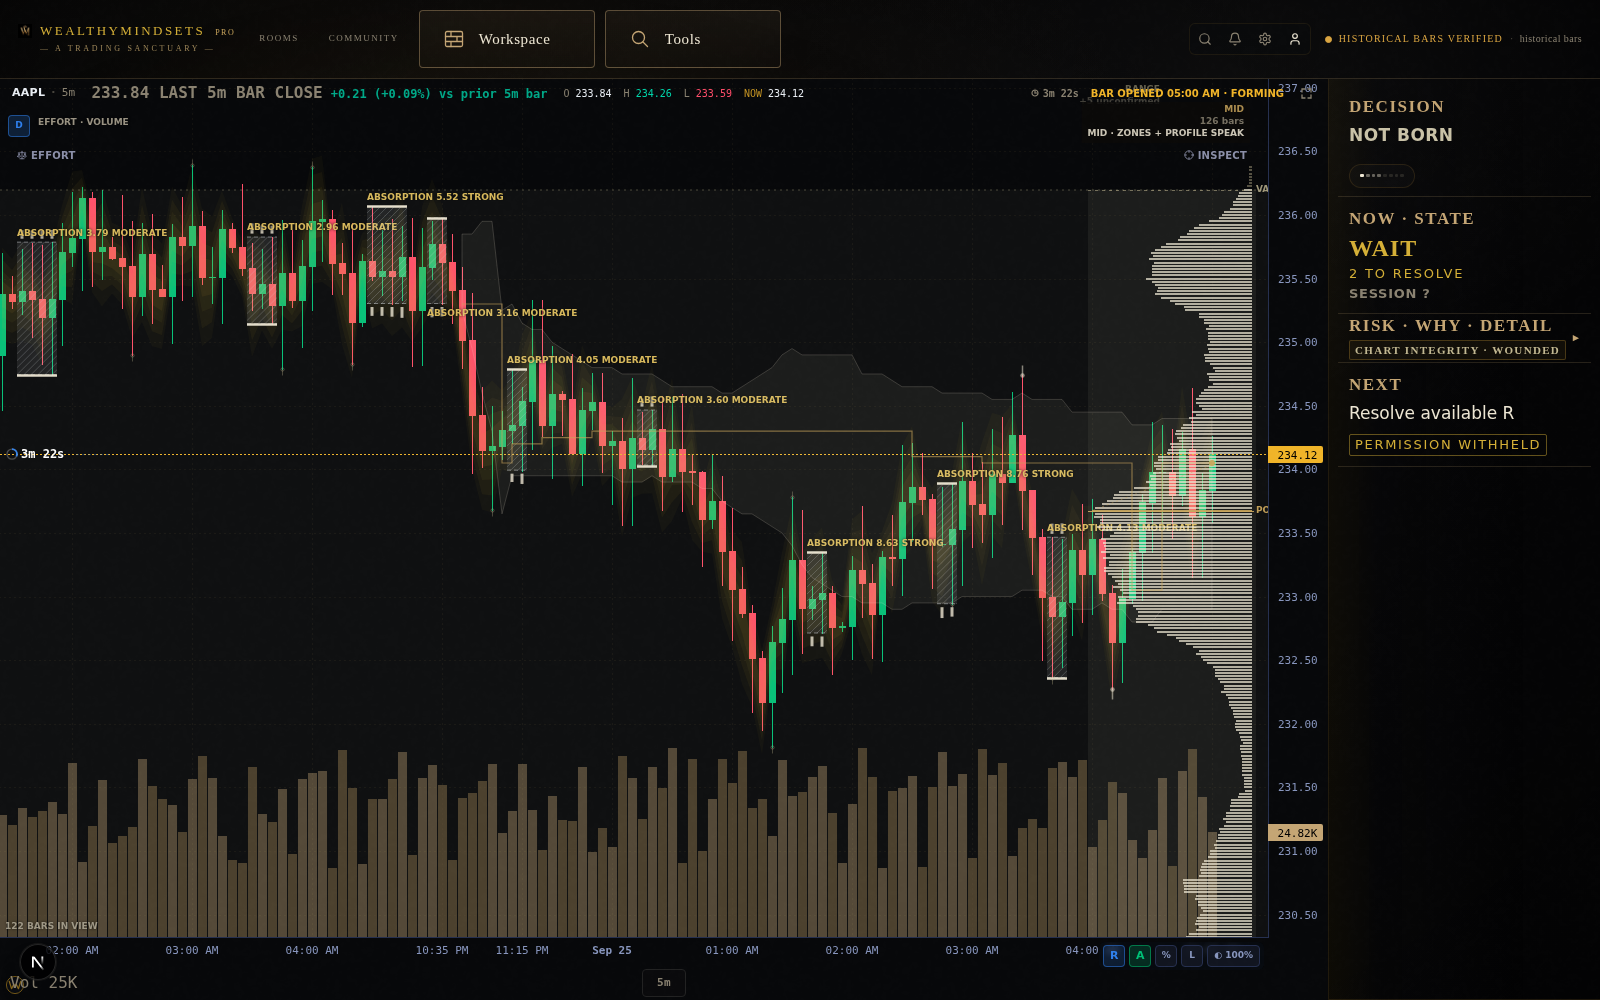
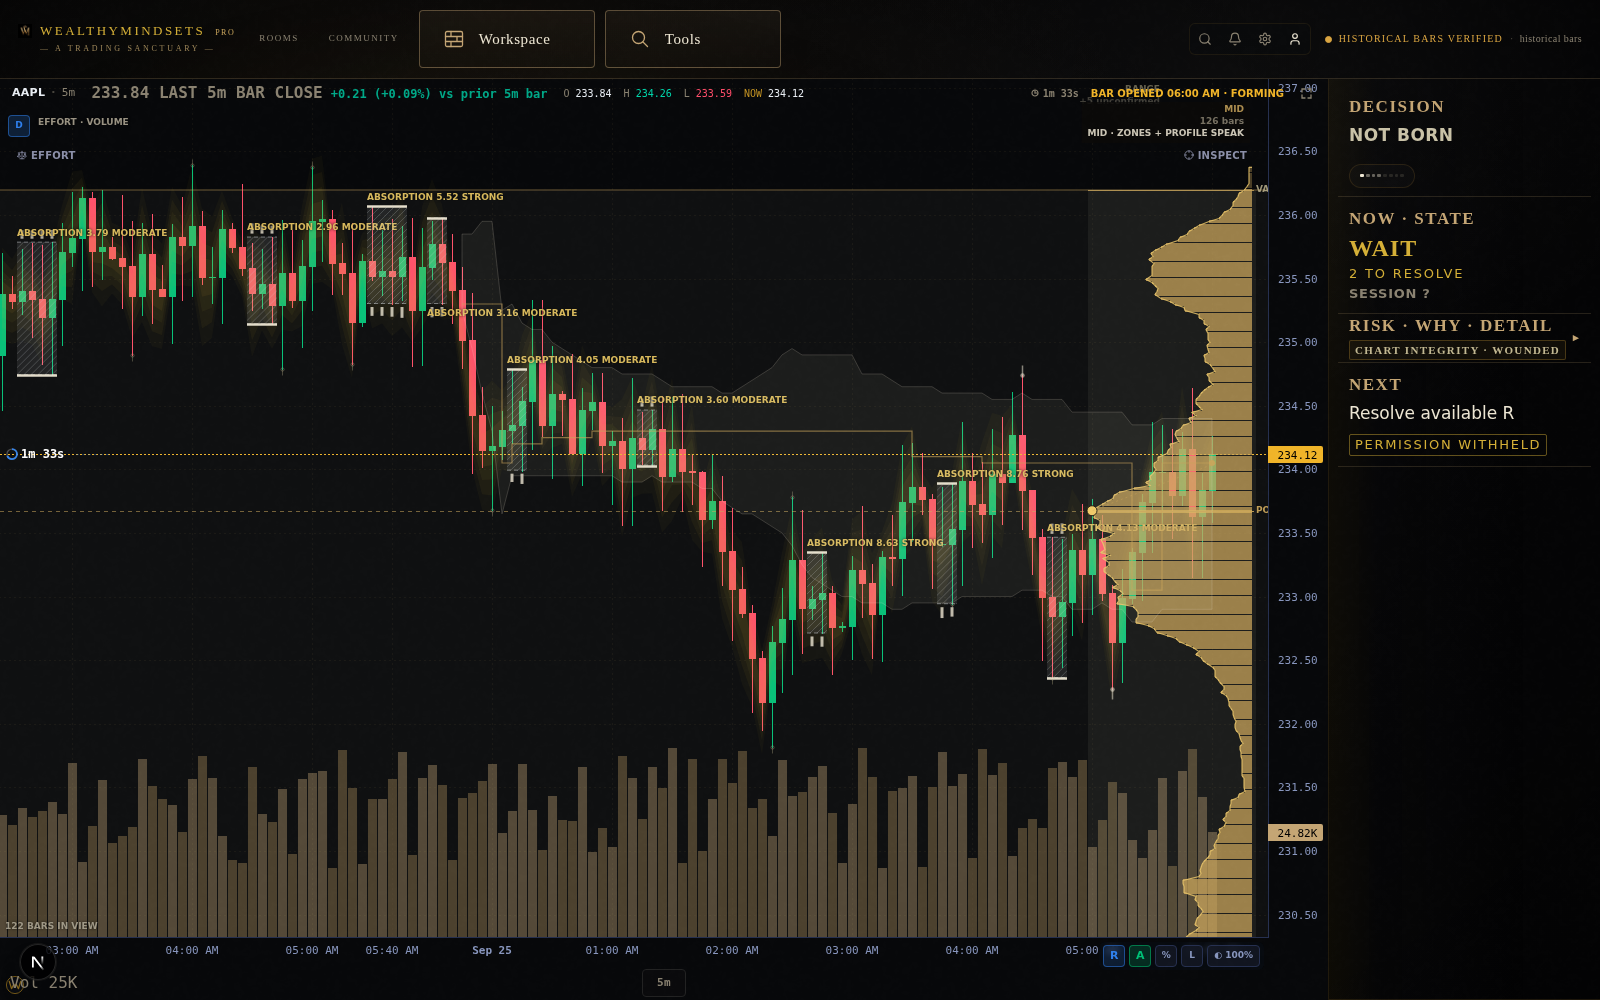
Garden 12 · FAR is a different picture: dim candles, regime envelope, major structure (canon H-501)
At FAR (the one depth owner: visible bar count) the glass now paints the
H-501 left panel first: a veil dims the candles, a regime envelope is fit
through MAJOR swings in view (zigzag turning only after 20% of the visible
range — measured, not chosen), with its midline, and the last four pivots
are named against their own kind (HIGHER HIGH / LOWER LOW …). Nothing is
extrapolated past the last pivot. Receipt: ds.farForm
("DIM+ENVELOPE:UP+NAMED:4" or "DIM:TOO_FEW_PIVOTS").
Proof: garden12/SIDE_H501_far.png, BA_far_regime.png (FIXTURE bars).

Claude-Session: https://claude.ai/code/session_01Gntm2WzCaW5uQMS2aMojoZ

Changed region(s): [[0.6562, 0.186, 0.7812, 0.961], [0.25, 0.93, 0.3438, 0.961], [0.375, 0.93, 0.4062, 0.961]]

diff --git a/src/lib/marketData/viewModels/selectFarRegimeEnvelope.ts b/src/lib/marketData/viewModels/selectFarRegimeEnvelope.ts
@@ -1,0 +1,126 @@
+/**
+ * FAR REGIME ENVELOPE — canon plate H-501 (WM_A_H501_SEMANTIC_ZOOM), left
+ * panel: "DIM CANDLES · REGIME ENVELOPE · MAJOR STRUCTURE ONLY".
+ *
+ * At regime scale the trader weighs direction and width, not candles. The
+ * envelope is two least-squares lines in (time, price): one through the
+ * MAJOR swing highs in view, one through the major swing lows. "Major" is
+ * measured, not chosen: a zigzag over the visible bars that only turns after
+ * price travels REVERSAL_FRACTION of the visible high–low range. Each of the
+ * last few pivots is named against the previous pivot of its own kind
+ * (HIGHER HIGH, LOWER LOW, …). Nothing is extrapolated past the last pivot.
+ */
+
+export const FAR_ENVELOPE_VERSION = 1;
+export const FAR_NAMED_PIVOTS = 4;
+export const REVERSAL_FRACTION = 0.2;
+
+export interface FarBar { readonly time: number; readonly high: number; readonly low: number }
+
+export type FarEnvelopeReason = "DRAWN" | "TOO_FEW_PIVOTS";
+export type PivotWord = "HIGHER HIGH" | "LOWER HIGH" | "EQUAL HIGH" | "HIGHER LOW" | "LOWER LOW" | "EQUAL LOW";
+
+export interface EnvelopeLine {
+  /** price = slope * time + intercept (time in seconds). */
+  readonly slope: number;
+  readonly intercept: number;
+}
+
+export interface NamedPivot {
+  readonly time: number;
+  readonly price: number;
+  readonly kind: "HIGH" | "LOW";
+  readonly word: PivotWord;
+}
+
+export interface FarEnvelopeVM {
+  readonly version: number;
+  readonly drawn: boolean;
+  readonly reason: FarEnvelopeReason;
+  readonly upper: EnvelopeLine | null;
+  readonly lower: EnvelopeLine | null;
+  readonly fromTime: number | null;
+  readonly toTime: number | null;
+  /** "UP" / "DOWN" when both edges lean the same way, else "SIDEWAYS". */
+  readonly lean: "UP" | "DOWN" | "SIDEWAYS";
+  readonly named: readonly NamedPivot[];
+}
+
+const refuse = (): FarEnvelopeVM => ({
+  version: FAR_ENVELOPE_VERSION, drawn: false, reason: "TOO_FEW_PIVOTS",
+  upper: null, lower: null, fromTime: null, toTime: null, lean: "SIDEWAYS", named: [],
+});
+
+function fit(pts: readonly { time: number; price: number }[]): EnvelopeLine | null {
+  if (pts.length < 2) return null;
+  const n = pts.length;
+  const mx = pts.reduce((s, p) => s + p.time, 0) / n;
+  const my = pts.reduce((s, p) => s + p.price, 0) / n;
+  let sxx = 0, sxy = 0;
+  for (const p of pts) { sxx += (p.time - mx) ** 2; sxy += (p.time - mx) * (p.price - my); }
+  if (!(sxx > 0)) return null;
+  const slope = sxy / sxx;
+  return { slope, intercept: my - slope * mx };
+}
+
+/** Alternating major swing pivots: a turn is confirmed only once price has
+ *  travelled `threshold` back from the running extreme. */
+export function majorSwings(bars: readonly FarBar[], threshold: number): { kind: "HIGH" | "LOW"; time: number; price: number }[] {
+  const out: { kind: "HIGH" | "LOW"; time: number; price: number }[] = [];
+  if (bars.length < 3 || !(threshold > 0)) return out;
+  let dir: 1 | -1 | 0 = 0;
+  let hi = bars[0], lo = bars[0];
+  for (const b of bars) {
+    if (dir === 0) {
+      if (b.high > hi.high) hi = b;
+      if (b.low < lo.low) lo = b;
+      if (hi.high - lo.low >= threshold) {
+        if (hi.time < lo.time) { out.push({ kind: "HIGH", time: hi.time, price: hi.high }); dir = -1; }
+        else { out.push({ kind: "LOW", time: lo.time, price: lo.low }); dir = 1; }
+      }
+    } else if (dir === 1) {
+      if (b.high > hi.high) hi = b;
+      else if (hi.high - b.low >= threshold) { out.push({ kind: "HIGH", time: hi.time, price: hi.high }); dir = -1; lo = b; }
+    } else {
+      if (b.low < lo.low) lo = b;
+      else if (b.high - lo.low >= threshold) { out.push({ kind: "LOW", time: lo.time, price: lo.low }); dir = 1; hi = b; }
+    }
+  }
+  return out;
+}
+
+export function selectFarRegimeEnvelope(
+  bars: readonly FarBar[] | null | undefined,
+  visibleFrom: number,
+  visibleTo: number,
+): FarEnvelopeVM {
+  const vis = [...(bars ?? [])]
+    .filter(b => Number.isFinite(b.time) && Number.isFinite(b.high) && Number.isFinite(b.low) && b.time >= visibleFrom && b.time <= visibleTo)
+    .sort((a, b) => a.time - b.time);
+  if (vis.length < 3) return refuse();
+  let top = -Infinity, bot = Infinity;
+  for (const b of vis) { top = Math.max(top, b.high); bot = Math.min(bot, b.low); }
+  const inView = majorSwings(vis, (top - bot) * REVERSAL_FRACTION);
+  const highs = inView.filter(p => p.kind === "HIGH");
+  const lows = inView.filter(p => p.kind === "LOW");
+  const upper = fit(highs), lower = fit(lows);
+  if (!upper || !lower) return refuse();
+
+  const named: NamedPivot[] = [];
+  for (const group of [highs, lows]) {
+    for (let i = 1; i < group.length; i++) {
+      const p = group[i], prev = group[i - 1];
+      const tol = Math.abs(prev.price) * 1e-4;
+      const cmp = p.price > prev.price + tol ? "HIGHER" : p.price < prev.price - tol ? "LOWER" : "EQUAL";
+      named.push({ time: p.time, price: p.price, kind: p.kind, word: `${cmp} ${p.kind}` as PivotWord });
+    }
+  }
+  named.sort((a, b) => a.time - b.time);
+
+  const lean = upper.slope > 0 && lower.slope > 0 ? "UP" : upper.slope < 0 && lower.slope < 0 ? "DOWN" : "SIDEWAYS";
+  return {
+    version: FAR_ENVELOPE_VERSION, drawn: true, reason: "DRAWN", upper, lower,
+    fromTime: inView[0].time, toTime: inView[inView.length - 1].time, lean,
+    named: named.slice(-FAR_NAMED_PIVOTS),
+  };
+}

diff --git a/src/components/chart/MainChart.tsx b/src/components/chart/MainChart.tsx
@@ -206,6 +206,7 @@ import { selectExhaustion } from "@/lib/marketData/viewModels/selectExhaustion";
 import { selectQuestionLens, type QuestionChoice } from "@/lib/marketData/viewModels/selectQuestionLens";
 import { selectPrintResponse } from "@/lib/marketData/viewModels/selectPrintResponse";
 import { selectSessionGhostProfiles } from "@/lib/marketData/viewModels/selectSessionGhostProfiles";
+import { selectFarRegimeEnvelope } from "@/lib/marketData/viewModels/selectFarRegimeEnvelope";
 import { selectAnatomyCards } from "@/lib/marketData/viewModels/selectAnatomyCards";
 import { selectMemoryGhost, type MemoryGhostVM } from "@/lib/marketData/viewModels/selectMemoryGhost";
 import { DEFAULT_STACK_PREFS, orderStack, stackOpacity, stackWidth, type ProfileStackPrefs } from "@/lib/marketData/viewModels/profileStackPrefs";
@@ -5526,6 +5527,56 @@ export function MainChart({ symbol, timeframe, setTimeframe, footprintType, foot
       const chart = chartRef.current;
       if (!chart || !candleRef.current) return;
       const srs = candleRef.current;
+
+      /* ── H-501 · FAR IS A DIFFERENT PICTURE (canon plate
+         WM_A_H501_SEMANTIC_ZOOM, left panel: DIM CANDLES · REGIME ENVELOPE ·
+         MAJOR STRUCTURE ONLY). Painted first so every later reading sits on
+         top: a veil dims the candles, the envelope is fit through the
+         confirmed swing pivots in view (selectFarRegimeEnvelope), and the
+         last few pivots are named against their own kind. */
+      try {
+        const vr = chart.timeScale().getVisibleLogicalRange();
+        const farDepth = semanticDensityForBarCount(vr ? Math.max(0, Math.floor(vr.to) - Math.ceil(vr.from) + 1) : null).depth;
+        if (farDepth === "FAR") {
+          const axisWF = (() => { try { const w = chart.priceScale("right").width(); if (Number.isFinite(w) && w > 0) return Math.ceil(w); } catch {} return 90; })();
+          const axisHF = (() => { try { const h = chart.timeScale().height(); if (Number.isFinite(h) && h > 0) return Math.ceil(h); } catch {} return 28; })();
+          const pr = Math.max(8, W - axisWF), pb = Math.max(20, H - axisHF);
+          ctx.fillStyle = "rgba(11,10,8,0.56)"; ctx.fillRect(0, 0, pr, pb);
+          const tr = chart.timeScale().getVisibleRange();
+          const env = selectFarRegimeEnvelope((barsRef.current ?? []).map(b => ({ time: Number(b.time), high: b.high, low: b.low })),
+            tr ? Number(tr.from) : 0, tr ? Number(tr.to) : 0);
+          canvas.dataset.farForm = env.drawn ? `DIM+ENVELOPE:${env.lean}+NAMED:${env.named.length}` : `DIM:${env.reason}`;
+          if (env.drawn && env.upper && env.lower && env.fromTime != null && env.toTime != null) {
+            const at = (l: { slope: number; intercept: number }, t: number) => srs.priceToCoordinate(l.slope * t + l.intercept);
+            const x0 = chart.timeScale().timeToCoordinate(env.fromTime as never), x1 = chart.timeScale().timeToCoordinate(env.toTime as never);
+            const u0 = at(env.upper, env.fromTime), u1 = at(env.upper, env.toTime), l0 = at(env.lower, env.fromTime), l1 = at(env.lower, env.toTime);
+            if (x0 != null && x1 != null && u0 != null && u1 != null && l0 != null && l1 != null) {
+              ctx.save();
+              ctx.beginPath(); ctx.moveTo(+x0, +u0); ctx.lineTo(+x1, +u1); ctx.lineTo(+x1, +l1); ctx.lineTo(+x0, +l0); ctx.closePath();
+              ctx.fillStyle = "rgba(201,165,92,0.07)"; ctx.fill();
+              ctx.strokeStyle = "rgba(201,165,92,0.7)"; ctx.lineWidth = 1.5;
+              ctx.beginPath(); ctx.moveTo(+x0, +u0); ctx.lineTo(+x1, +u1); ctx.moveTo(+x0, +l0); ctx.lineTo(+x1, +l1); ctx.stroke();
+              ctx.setLineDash([5, 5]); ctx.strokeStyle = "rgba(237,230,211,0.35)"; ctx.lineWidth = 1;
+              ctx.beginPath(); ctx.moveTo(+x0, (+u0 + +l0) / 2); ctx.lineTo(+x1, (+u1 + +l1) / 2); ctx.stroke(); ctx.setLineDash([]);
+              ctx.font = "700 10px ui-sans-serif, system-ui, sans-serif"; ctx.textAlign = "center";
+              for (const n of env.named) {
+                const xn = chart.timeScale().timeToCoordinate(n.time as never), yn = srs.priceToCoordinate(n.price);
+                if (xn == null || yn == null) continue;
+                const hi = n.kind === "HIGH", ty = hi ? +yn - 26 : +yn + 26;
+                ctx.strokeStyle = "rgba(237,230,211,0.55)"; ctx.lineWidth = 1;
+                ctx.beginPath(); ctx.moveTo(+xn, hi ? +yn - 4 : +yn + 4); ctx.lineTo(+xn, hi ? ty + 6 : ty - 6); ctx.stroke();
+                ctx.textBaseline = hi ? "bottom" : "top";
+                const tw = ctx.measureText(n.word).width + 10;
+                ctx.fillStyle = "rgba(11,10,8,0.85)"; ctx.fillRect(+xn - tw / 2, hi ? ty - 14 : ty, tw, 14);
+                ctx.fillStyle = "rgba(237,230,211,0.92)"; ctx.fillText(n.word, +xn, hi ? ty - 1 : ty + 1);
+              }
+              ctx.restore();
+            }
+          }
+        } else {
+          delete canvas.dataset.farForm;
+        }
+      } catch { /* camera mid-transition */ }
 
       // Guard so the WM VP layer draws exactly once per frame regardless of which
       // call site fires first (big-trades mode draws VP early, under the bubbles).

diff --git a/src/lib/marketData/viewModels/selectFarRegimeEnvelope.test.ts b/src/lib/marketData/viewModels/selectFarRegimeEnvelope.test.ts
@@ -1,0 +1,49 @@
+import { describe, expect, it } from "vitest";
+import { majorSwings, selectFarRegimeEnvelope } from "./selectFarRegimeEnvelope";
+
+/** Bars following a piecewise-linear path through the given turning prices. */
+function path(turns: number[], stepsPerLeg = 10) {
+  const out: { time: number; high: number; low: number }[] = [];
+  let t = 0;
+  for (let i = 0; i < turns.length - 1; i++) {
+    for (let k = 0; k < stepsPerLeg; k++) {
+      const p = turns[i] + ((turns[i + 1] - turns[i]) * k) / stepsPerLeg;
+      out.push({ time: (t += 60), high: p + 0.1, low: p - 0.1 });
+    }
+  }
+  return out;
+}
+
+describe("majorSwings", () => {
+  it("ignores wiggles smaller than the threshold", () => {
+    const s = majorSwings(path([100, 110, 109, 111, 100]), 5);
+    expect(s.map(p => p.kind)).toEqual(["LOW", "HIGH"]);
+    expect(s[1].price).toBeCloseTo(111, 0);
+  });
+});
+
+describe("selectFarRegimeEnvelope", () => {
+  it("refuses with too few bars or swings", () => {
+    expect(selectFarRegimeEnvelope([], 0, 1e9).reason).toBe("TOO_FEW_PIVOTS");
+    expect(selectFarRegimeEnvelope(path([100, 120]), 0, 1e9).reason).toBe("TOO_FEW_PIVOTS");
+  });
+
+  it("fits a rising channel through major swings and names them", () => {
+    const vm = selectFarRegimeEnvelope(path([100, 120, 108, 128, 116, 136, 124, 140]), 0, 1e9);
+    expect(vm.drawn).toBe(true);
+    expect(vm.lean).toBe("UP");
+    expect(vm.named.length).toBeGreaterThan(0);
+    expect(vm.named.every(n => n.word.startsWith("HIGHER"))).toBe(true);
+  });
+
+  it("calls a falling channel DOWN", () => {
+    const vm = selectFarRegimeEnvelope(path([140, 120, 132, 112, 124, 104, 116, 96]), 0, 1e9);
+    expect(vm.lean).toBe("DOWN");
+    expect(vm.named.every(n => n.word.startsWith("LOWER"))).toBe(true);
+  });
+
+  it("only reads bars inside the visible range", () => {
+    const bars = path([100, 120, 108, 128, 116, 136, 124, 140]);
+    expect(selectFarRegimeEnvelope(bars, 0, bars[5].time).drawn).toBe(false);
+  });
+});
